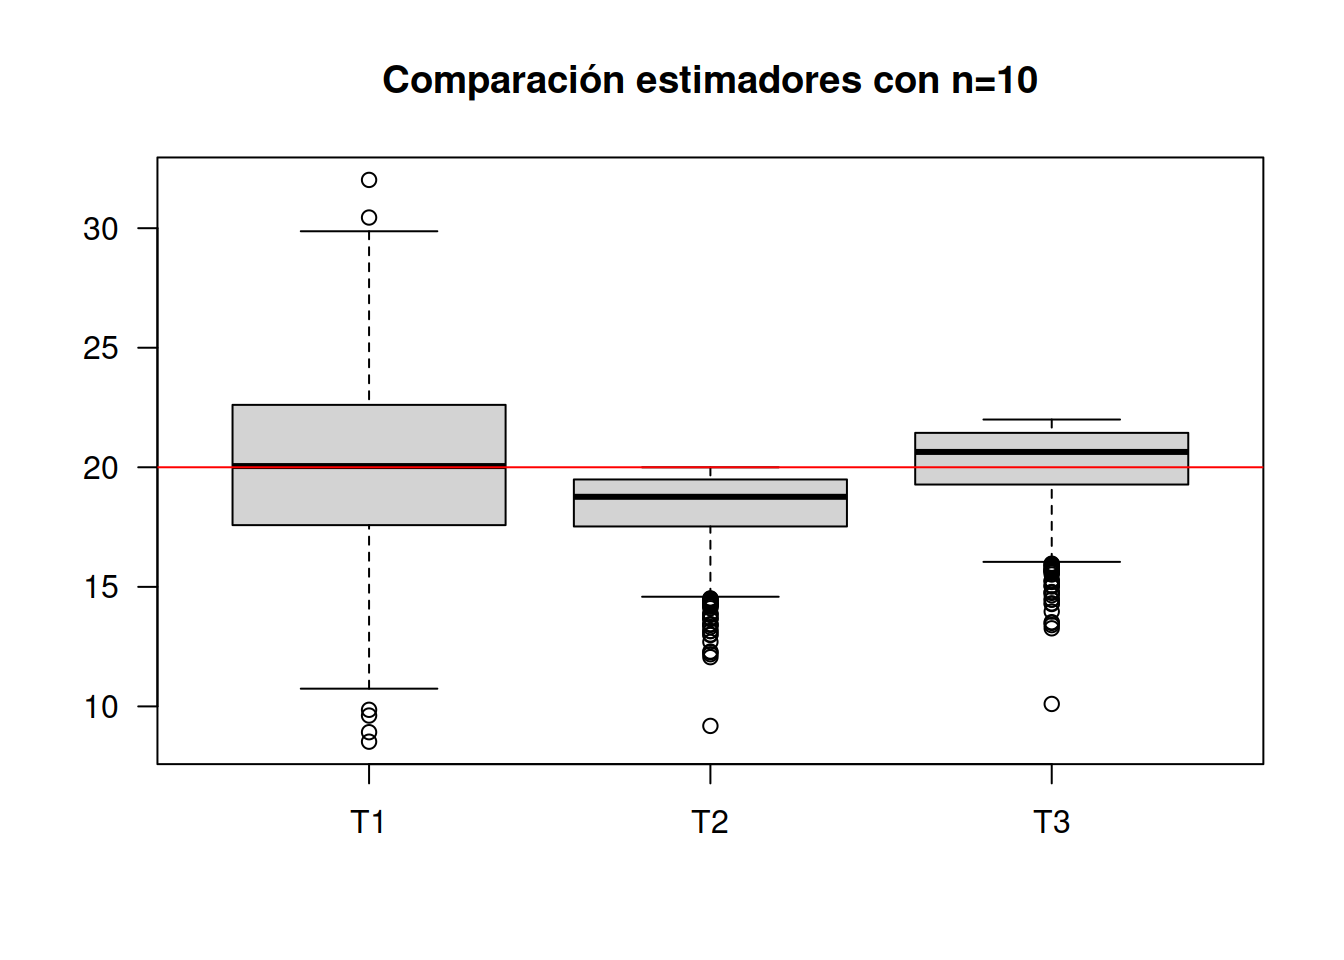
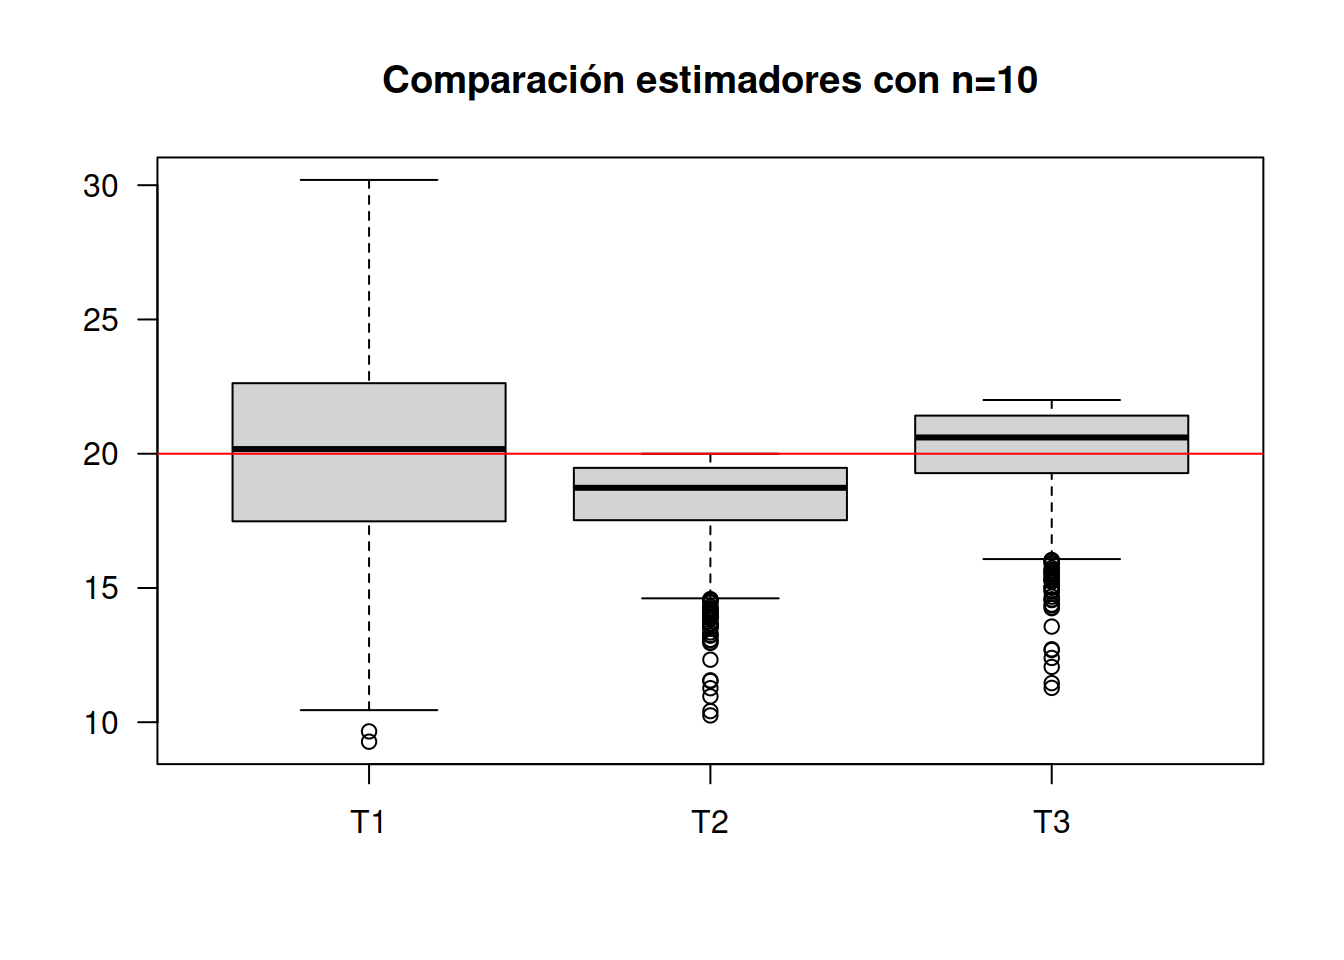
ajustes a la unidad4

diff --git a/docs/recurso231.html b/docs/recurso231.html
@@ -454,7 +454,7 @@ dbinom(1,n,p)# Función de masa</code></pre>
 <pre class="r"><code>qbinom(0.5,n,p) # Cuantiles</code></pre>
 <pre><code>[1] 5</code></pre>
 <pre class="r"><code>rbinom(10,n,p) #Números aleatorios</code></pre>
-<pre><code> [1] 4 5 3 4 7 4 5 7 5 6</code></pre>
+<pre><code> [1] 6 6 9 4 3 8 5 4 6 4</code></pre>
 <p><br/><br/></p>
 <pre class="r"><code>par(mfrow=c(2,2))
 plot(1:10,dbinom(1:10,n,p),pch=19,panel.first=grid(),main=&quot;Distribución binomial con p=0.5&quot;)
@@ -586,8 +586,8 @@ dnorm(1,mu,sigma)# Función de densidad</code></pre>
 <pre class="r"><code>qnorm(0.5,mu,sigma) # Cuantiles</code></pre>
 <pre><code>[1] 10</code></pre>
 <pre class="r"><code>rnorm(10,mu,sigma) #Números aleatorios</code></pre>
-<pre><code> [1]  9.745733 10.131654 10.073138 10.520392  8.982498 10.286290  9.303631
- [8]  9.738920  9.963256  8.997457</code></pre>
+<pre><code> [1] 10.000271  9.546160  9.564748  9.483085  9.612633  9.875370  9.683975
+ [8] 10.318294  9.309936  9.638661</code></pre>
 <p><br/><br/></p>
 <pre class="r"><code># Gráfico función de densidad con diferente media
 curve(dnorm(x,mu,sigma),xlim=c(0,20),ylab=&quot;Density&quot;)

diff --git a/docs/recurso331.html b/docs/recurso331.html
@@ -697,7 +697,7 @@ abline(h=20,  col=&quot;red&quot;)</code></pre>
 <p><img src="recurso331_files/figure-html/unnamed-chunk-4-1.png" width="672" /></p>
 <pre class="r"><code>apply(T123,2,mean)</code></pre>
 <pre><code>      T1       T2       T3 
-20.13065 18.27687 20.10456 </code></pre>
+20.06013 18.24049 20.06454 </code></pre>
 <p><br/><br/></p>
 <p>Para un tamaño de muestra <span class="math inline">\(n=10\)</span>
 se observa que los mejores resultados se obtienen con <span
@@ -719,7 +719,7 @@ abline(h=20,  col=&quot;red&quot;)</code></pre>
 <p><img src="recurso331_files/figure-html/unnamed-chunk-5-1.png" width="672" /></p>
 <pre class="r"><code>apply(T123,2,mean)</code></pre>
 <pre><code>      T1       T2       T3 
-20.00177 19.79864 19.99663 </code></pre>
+20.03161 19.80814 20.00622 </code></pre>
 <p>Los resutados indican que el mejor estimador de <span
 class="math inline">\(b\)</span> corresponde a <span
 class="math inline">\(T3\)</span>. Sin embargo el estimador <span
